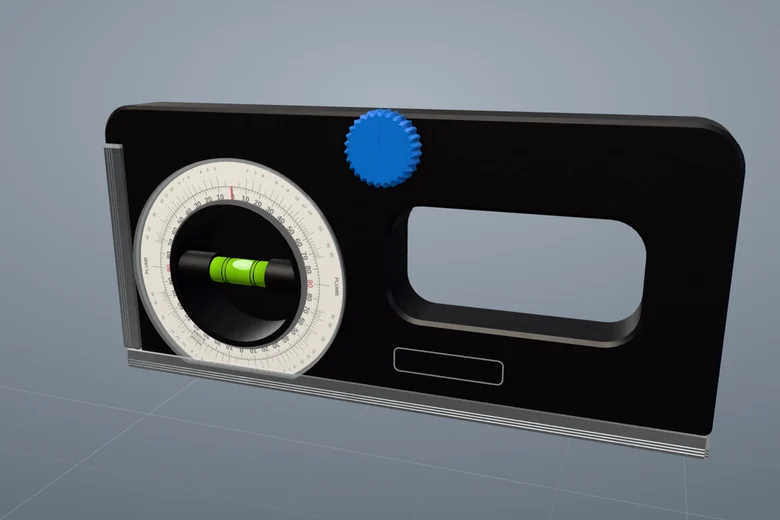
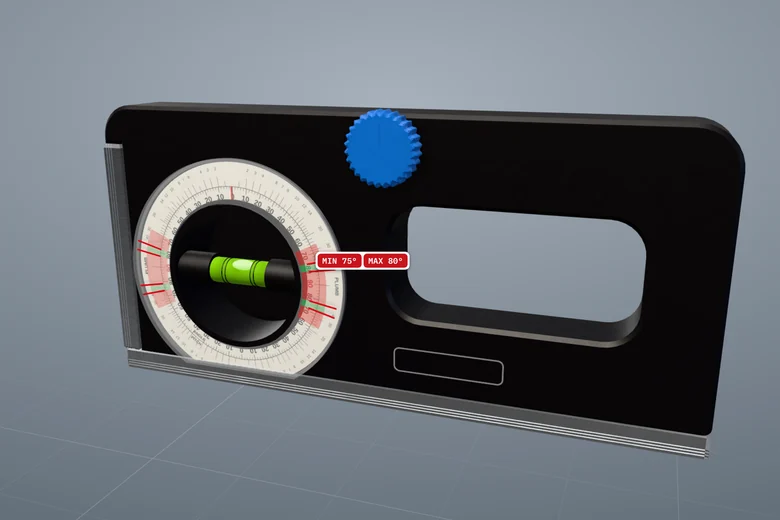
Niveau à degrés : les degrés à ne pas dépasser clairement en rouge sur le cadran
Demande du client. La plage du rack à tiges (75° à 80°) est désormais montrée
en permanence sur le cadran, et plus seulement panneau ouvert : trait rouge
épais à 75° et à 80°, zones interdites en rouge franc de part et d'autre
(trop couché, trop debout), zone permise en vert entre les deux, et étiquette
rouge « MIN 75° · MAX 80° » posée près de la plage la plus proche de
l'aiguille (cachée quand le cadran est vu de dos). Repères du site, absents de
l'outil ; masqués en vue éclatée et en coupe.

Panneau « Mesurer » : les deux limites sont rappelées en rouge (MIN 75°,
MAX 80°), celle qui est franchie est cerclée, le verdict nomme le minimum ou
le maximum dépassé, et le mode d'emploi dit en rouge « Ne pas dépasser 80° ;
pas moins de 75° ». « Cadran de face » garde l'étiquette dans le cadre.

Curseur d'éclatement : l'événement « view-state » est émis au passage
d'assemblé à éclaté (ou l'inverse) et au relâcher — il ne l'était pas, les
fonctions ignoraient l'état quand on tirait le curseur.

Fiche, page des cotes P02, vignette (limites visibles), index et README.

Claude-Session: https://claude.ai/code/session_015N4WsssJZ8LhHWCi7yY3si

Changed region(s): [[0.3692, 0.4615, 0.5231, 0.6462], [0.1538, 0.4308, 0.2462, 0.5846]]

diff --git a/src/ui/features/niveau-degres.js b/src/ui/features/niveau-degres.js
@@ -11,14 +11,18 @@
 // - Sur un téléphone, « Suivre le téléphone » lit ses capteurs d'inclinaison : le téléphone
 //   tenu debout remplace l'outil, sa tranche du bas tient lieu de règle de base.
 // - Usage indiqué par le client : vérifier l'angle du rack à tiges, entre 75° et 80°
-//   (procédure PRO-DD-ST-008 du support de tiges de forage, étape 5). Panneau ouvert, la
-//   plage est en vert sur le cadran (repère visuel, absent de l'outil) et le panneau dit si
-//   l'angle lu convient ; « Poser sur le rack » penche la surface comme le support de la
-//   scène d'installation. L'outil est aimanté : il tient seul contre l'acier du rack.
+//   (procédure PRO-DD-ST-008 du support de tiges de forage, étape 5). Les degrés à ne pas
+//   dépasser sont clairement en rouge sur le cadran, en permanence (demande du client) :
+//   traits rouges épais à 75° et à 80°, zones interdites en rouge, zone permise en vert,
+//   étiquette rouge « MIN 75° · MAX 80° » du côté de l'aiguille — repères du site, absents de
+//   l'outil. Le panneau rappelle les deux limites en rouge et dit si l'angle lu convient ;
+//   « Poser sur le rack » penche la surface comme le support de la scène d'installation.
+//   L'outil est aimanté : il tient seul contre l'acier du rack.
 //
 // Les cotes, la place de la bulle et l'angle lu viennent du modèle
 // (src/models/niveau-a-degres/index.js) ; ce module ne fait que l'interface.
 import * as THREE from 'three';
+import { CSS2DObject } from 'three/examples/jsm/renderers/CSS2DRenderer.js';
 import './niveau-degres.css';
 import { L, T, CADRAN, MOLETTE, FIOLE, RAPPORT, RACK, lecture, bulle, placerBulle, regler, mobiles, verdictRack } from '../../models/niveau-a-degres/index.js';
 
@@ -58,7 +62,9 @@ export default {
     let racine = null; // modèle affiché (racine), ou null hors de la page du niveau
     let pieces = null; // pièces mobiles : { tambour, fiole, molette, bulle }
     let surface = null; // bande de la surface mesurée
-    let zone = null; // plage du rack à tiges, en vert sur le cadran
+    let zone = null; // plage du rack à tiges sur le cadran : permis en vert, limites et interdit en rouge
+    let coupe = false; // vue en coupe : la plage, posée sur le couvercle, est masquée
+    let retour = 0; // délai avant de remontrer la plage, le temps que le couvercle revienne de la vue éclatée
     let eclate = 0;
     let bx = 0; // place affichée de la bulle le long de la fiole (mm)
     let image = 0; // requestAnimationFrame en cours
@@ -81,7 +87,10 @@ export default {
         <b class="nvd-deg mono" data-nvd="deg">0,0°</b>
         <span class="nvd-pente" data-nvd="pente"></span>
         <span class="nvd-bulle" data-nvd="bulle" role="status"></span>
-        <span class="nvd-rack" data-nvd="rack"></span>
+        <span class="nvd-rack" data-nvd="rack">
+          <span class="nvd-limites" title="Rack à tiges : limites à ne pas dépasser"><b class="nvd-min">MIN ${RACK.min}°</b><b class="nvd-max">MAX ${RACK.max}°</b></span>
+          <span data-nvd="rack-txt" role="status"></span>
+        </span>
       </div>
       <div class="nvd-champ" data-nvd="champ-pente">
         <label for="nvd-pente">Pente de la surface mesurée</label>
@@ -111,7 +120,7 @@ export default {
         <li>Posez la règle de base sur le poteau du rack à tiges : elle est aimantée, l'outil tient seul contre l'acier et les deux mains restent libres. Ici, penchez la surface ou choisissez « Poser sur le rack à tiges ».</li>
         <li>Tournez la molette bleue jusqu'à ce que la bulle soit entre les deux paires de traits. Dans la vue 3D, tirez la molette ou la fiole.</li>
         <li>Lisez l'angle sous l'aiguille rouge : degrés au-dedans (ANGLE), pouces par pied au-dehors (PITCH). 0 : de niveau ; 90, « PLUMB » : d'aplomb.</li>
-        <li>Rack à tiges : l'aiguille doit être dans la zone verte, entre ${RACK.min}° et ${RACK.max}° (graduations aux 2° : ${RACK.min} se lit entre 74 et 76).</li>
+        <li>Rack à tiges : l'aiguille doit être dans la zone verte, entre les deux traits rouges. <b class="nvd-rouge">Ne pas dépasser ${RACK.max}° ; pas moins de ${RACK.min}°.</b> Graduations aux 2° : ${RACK.min} se lit entre 74 et 76.</li>
       </ol>
       <p class="nvd-source" data-nvd="source">Plage de ${PLAGE} : procédure du support de tiges de forage, étape 5. <button type="button" class="nvd-lien" data-nvd="procedure">Voir la procédure du rack à tiges ›</button></p>`;
     const $ = (nom) => el.querySelector(`[data-nvd="${nom}"]`);
@@ -138,12 +147,12 @@ export default {
       // Loin de la plage (outil à l'horizontale, autre mesure) : pas d'alerte, l'outil n'est pas sur le rack.
       const v = !centree || plat ? 'attente' : l.deg < LOIN ? 'loin' : verdictRack(l.deg);
       rack.dataset.etat = v;
-      rack.textContent = `Rack à tiges, ${PLAGE} : ${{
+      $('rack-txt').textContent = `Rack à tiges : ${{
         attente: 'centrez la bulle pour vérifier',
         loin: 'posez l\'outil sur le poteau du rack',
         conforme: `conforme (${fr(l.deg)}°)`,
-        couche: `trop couché (${fr(l.deg)}°, moins de ${RACK.min}°)`,
-        debout: `trop debout (${fr(l.deg)}°, plus de ${RACK.max}°)`,
+        couche: `trop couché (${fr(l.deg)}°), sous le minimum de ${RACK.min}°`,
+        debout: `trop debout (${fr(l.deg)}°), au-delà du maximum de ${RACK.max}°`,
       }[v]}.`;
       if (document.activeElement !== cPente) cPente.value = String(etat.pente);
       if (document.activeElement !== nPente) nPente.value = String(Math.round(etat.pente * 10) / 10);
@@ -167,38 +176,77 @@ export default {
     }
 
     /**
-     * Plage du rack à tiges sur le cadran : secteurs verts translucides aux quatre endroits où
-     * l'aiguille lit de 75° à 80° (de part et d'autre de chaque « PLUMB »), bordés de rouge pâle
-     * (trop couché, trop debout). Repère visuel posé sur le couvercle, absent de l'outil ;
-     * montré tant que le panneau de mesure est ouvert.
+     * Plage du rack à tiges sur le cadran, montrée en permanence (demande du client : les degrés à
+     * ne pas dépasser clairement en rouge). Aux quatre endroits où l'aiguille lit de 75° à 80°, de
+     * part et d'autre de chaque « PLUMB » : zone permise en vert, zones interdites en rouge (trop
+     * couché, trop debout), trait rouge épais à chaque limite ; et une étiquette rouge
+     * « MIN 75° · MAX 80° » du côté où se trouve l'aiguille. Repères du site posés sur le
+     * couvercle, absents de l'outil ; masqués en vue éclatée et en coupe.
      */
     function creerZone() {
       const g = new THREE.Group();
       const teinte = (color, opacity) => new THREE.MeshBasicMaterial({ color, transparent: true, opacity, depthWrite: false, toneMapped: false, side: THREE.DoubleSide });
-      const vert = teinte(0x1fb85a, 0.5), rouge = teinte(0xe03a2e, 0.2);
+      const vert = teinte(0x1fb85a, 0.5), rouge = teinte(0xe0221c, 0.5);
+      const trait = new THREE.MeshBasicMaterial({ color: 0xd8141c, toneMapped: false, side: THREE.DoubleSide });
       const r0 = (CADRAN.rTrou + 0.4) * MM, r1 = (CADRAN.rArc + 4.6) * MM;
-      /** Secteurs où l'aiguille lit de v0 à v1 : la lecture v est à l'angle polaire 90 − v et à ses trois symétriques. */
+      const muet = (m) => { m.raycast = () => {}; return m; }; // ni survol ni clic
+      /** Angles polaires (degrés) où l'aiguille lit v : 90 − v et ses trois symétriques. */
+      const ou = (v) => [90 - v, 90 + v, 270 - v, 270 + v];
+      /** Secteurs où l'aiguille lit de v0 à v1. */
       const secteurs = (v0, v1, mat) => {
-        for (const debut of [90 - v1, 90 + v0, 270 - v1, 270 + v0]) {
-          const m = new THREE.Mesh(new THREE.RingGeometry(r0, r1, 12, 1, debut * RAD, (v1 - v0) * RAD), mat);
-          m.raycast = () => {}; // ni survol ni clic
-          g.add(m);
-        }
+        for (const debut of [90 - v1, 90 + v0, 270 - v1, 270 + v0]) g.add(muet(new THREE.Mesh(new THREE.RingGeometry(r0, r1, 12, 1, debut * RAD, (v1 - v0) * RAD), mat)));
       };
-      // Comme dans la scène d'installation du rack : permis en vert, trop couché et trop debout en rouge pâle.
       secteurs(RACK.min, RACK.max, vert);
       secteurs(RACK.min - 10, RACK.min, rouge);
       secteurs(RACK.max, 90, rouge);
+      // Limites : trait rouge plein, des chiffres du cadran jusqu'au bord du couvercle.
+      const t0 = CADRAN.rChiffres + 1.9, t1 = CADRAN.rCouvercle - 2.2;
+      for (const v of [RACK.min, RACK.max]) for (const a of ou(v)) {
+        const m = muet(new THREE.Mesh(new THREE.PlaneGeometry((t1 - t0) * MM, 0.75 * MM), trait));
+        m.position.set(((t0 + t1) / 2) * MM * Math.cos(a * RAD), ((t0 + t1) / 2) * MM * Math.sin(a * RAD), 0.05 * MM);
+        m.rotation.z = a * RAD;
+        g.add(m);
+      }
+      // Étiquette des limites : toujours lisible, quel que soit le zoom ; cachée quand le cadran est vu de dos.
+      const el = document.createElement('div');
+      el.className = 'nvd-etiquette';
+      el.innerHTML = `<b>MIN ${RACK.min}°</b><b>MAX ${RACK.max}°</b>`;
+      el.title = `Rack à tiges : ne pas dépasser ${RACK.max}°, pas moins de ${RACK.min}°`;
+      const etiquette = new CSS2DObject(el);
+      const n = new THREE.Vector3(), o = new THREE.Vector3();
+      etiquette.onBeforeRender = (_r, _s, camera) => {
+        n.set(0, 0, 1).transformDirection(etiquette.matrixWorld);
+        o.setFromMatrixPosition(etiquette.matrixWorld);
+        el.style.visibility = n.dot(o.sub(camera.position)) < 0 ? '' : 'hidden';
+      };
+      g.add(etiquette);
+      g.userData.etiquette = etiquette;
       const c = CADRAN.couvercle;
       g.position.set(CADRAN.x * MM, CADRAN.y * MM, (T / 2 + c.jour + c.ep + 0.15) * MM);
       g.userData.stepOnly = true; // hors du cadrage du modèle
-      g.visible = false;
       return g;
+    }
+    /** L'étiquette des limites se tient près de la plage la plus proche de l'aiguille (à égalité : en haut à droite). */
+    function placerEtiquette() {
+      if (!zone) return;
+      const milieu = 90 - (RACK.min + RACK.max) / 2;
+      const aiguille = 90 + etat.cadran;
+      let mieux = milieu, ecart = Infinity;
+      for (const a of [milieu, 180 - milieu, 180 + milieu, 360 - milieu]) {
+        const d = Math.abs(tour(a - aiguille));
+        if (d < ecart - 1e-6) { ecart = d; mieux = a; }
+      }
+      const r = (CADRAN.rCouvercle + 10) * MM;
+      zone.userData.etiquette.position.set(r * Math.cos(mieux * RAD), r * Math.sin(mieux * RAD), 0);
     }
     const montrerZone = () => {
       if (!zone) return;
-      const v = ctx.ui.sidePanel.has(ID);
-      if (zone.visible !== v) { zone.visible = v; ctx.viewer.invalidate(); }
+      clearTimeout(retour);
+      const v = eclate <= 0.02 && !coupe;
+      if (zone.visible === v) return;
+      // Retour de la vue éclatée : la plage attend que le couvercle soit revenu à sa place.
+      if (v) retour = setTimeout(() => { if (zone && eclate <= 0.02 && !coupe) { zone.visible = true; ctx.viewer.invalidate(); } }, reduit.matches ? 0 : 700);
+      else { zone.visible = false; ctx.viewer.invalidate(); }
     };
 
     /** Pose le modèle selon l'état ; la bulle suit en glissant (boucle). */
@@ -209,6 +257,7 @@ export default {
       const b = bulle(haut(), etat.cadran);
       if (sec || reduit.matches) bx = b.x;
       placerBulle(pieces.bulle, { ...b, x: bx });
+      placerEtiquette();
       afficher();
       ctx.viewer.invalidate();
       if (Math.abs(b.x - bx) > 0.01 || anim) lancer();
@@ -235,6 +284,7 @@ export default {
       bx += (b.x - bx) * (1 - Math.exp(-dt / TAU));
       if (Math.abs(b.x - bx) < 0.01) bx = b.x;
       placerBulle(pieces.bulle, { ...b, x: bx });
+      placerEtiquette();
       afficher();
       ctx.viewer.invalidate();
       if (anim || bx !== b.x) image = requestAnimationFrame(pas);
@@ -257,7 +307,8 @@ export default {
       const c = racine.localToWorld(new THREE.Vector3(CADRAN.x * MM, CADRAN.y * MM, (T / 2) * MM));
       // De face, puis cadré dans la partie de la scène que le panneau laisse libre.
       ctx.viewer.lookAt([c.x, c.y, c.z + 0.4], [c.x, c.y, c.z], { instant: true });
-      const r = (CADRAN.rCouvercle + 6) * MM;
+      // Marge autour du couvercle : l'étiquette des limites du rack, posée juste dehors, reste dans le cadre.
+      const r = (CADRAN.rCouvercle + 23) * MM;
       ctx.viewer.frame(new THREE.Box3(new THREE.Vector3(c.x - r, c.y - r, c.z - T * MM), new THREE.Vector3(c.x + r, c.y + r, c.z)));
     }
 
@@ -267,8 +318,8 @@ export default {
       if (!pieces.tambour || !pieces.fiole || !pieces.bulle) { racine = null; return; }
       surface = creerSurface();
       zone = creerZone();
+      zone.visible = eclate <= 0.02 && !coupe;
       racine.add(surface, zone);
-      montrerZone();
       poser({ sec: true });
     }
 
@@ -276,6 +327,7 @@ export default {
       if (image) cancelAnimationFrame(image);
       image = 0;
       anim = null;
+      clearTimeout(retour);
       racine = pieces = surface = zone = null;
       capteur(false);
     }
@@ -451,12 +503,12 @@ export default {
       onClick: () => (ctx.ui.sidePanel.owner === ID ? ctx.ui.sidePanel.close() : ouvrir()),
     });
     bouton.hidden = true;
-    ctx.on('sidepanel', ({ open, owner }) => {
-      if (owner === ID) bouton.setAttribute('aria-pressed', String(open));
-      // Panneau ouvert, replié, recouvert par la fiche ou repris par un autre mode : la zone verte suit.
+    ctx.on('sidepanel', ({ open, owner }) => { if (owner === ID) bouton.setAttribute('aria-pressed', String(open)); });
+    ctx.on('view-state', ({ explode, section }) => {
+      eclate = explode || 0;
+      coupe = !!section?.on;
       montrerZone();
     });
-    ctx.on('view-state', ({ explode }) => { eclate = explode || 0; });
     ctx.on('equipment', ({ id }) => {
       // Le lien vers la procédure n'est offert que si le rack à tiges est au catalogue.
       $('source').hidden = !ctx.index.some((e) => e.id === RACK_EQ);

diff --git a/src/ui/features/niveau-degres.css b/src/ui/features/niveau-degres.css
@@ -8,7 +8,16 @@
 .nvd-pente { font-size: 15px; font-variant-numeric: tabular-nums; }
 .nvd-bulle { margin-top: 6px; padding: 6px 9px; border-radius: 7px; font-size: 13px; background: var(--warn-soft); color: var(--warn); }
 .nvd-bulle[data-etat='ok'] { background: color-mix(in srgb, #1f9d55 16%, var(--surface)); color: color-mix(in srgb, #1f9d55 72%, var(--ink)); }
-.nvd-rack { margin-top: 4px; padding: 6px 9px; border-radius: 7px; font-size: 13px; background: var(--surface); color: var(--muted); border: 1px solid var(--line); }
+.nvd-rack { display: flex; flex-wrap: wrap; align-items: center; gap: 6px 8px; margin-top: 4px; padding: 6px 9px; border-radius: 7px; font-size: 13px; background: var(--surface); color: var(--muted); border: 1px solid var(--line); }
+/* Limites du rack à tiges : toujours en rouge, blanc sur rouge (lisible en clair comme en sombre). */
+.nvd-limites { display: inline-flex; gap: 4px; flex: none; }
+.nvd-limites b, .nvd-etiquette b {
+  padding: 2px 7px; border-radius: 5px; background: #c8141c; color: #fff; font-family: var(--f-mono); font-size: 12px; font-weight: 600; letter-spacing: 0.02em; white-space: nowrap;
+}
+.nvd-rack[data-etat='couche'] .nvd-min, .nvd-rack[data-etat='debout'] .nvd-max { box-shadow: 0 0 0 2px var(--surface), 0 0 0 4px #c8141c; }
+.nvd-rouge { color: var(--error); }
+/* Étiquette des limites posée sur la vue 3D, près de la plage du cadran. */
+.nvd-etiquette { display: flex; gap: 3px; padding: 3px; border-radius: 7px; background: #fff; box-shadow: 0 1px 5px rgba(0, 0, 0, 0.45); pointer-events: none; }
 .nvd-rack[data-etat='conforme'] { border-color: transparent; background: color-mix(in srgb, #1f9d55 16%, var(--surface)); color: color-mix(in srgb, #1f9d55 72%, var(--ink)); font-weight: 600; }
 .nvd-rack[data-etat='couche'], .nvd-rack[data-etat='debout'] { border-color: transparent; background: var(--error-soft); color: var(--error); font-weight: 600; }
 .nvd-champ { display: grid; gap: 4px; }

diff --git a/src/main.js b/src/main.js
@@ -1244,10 +1244,17 @@ function bindChrome() {
   }));
 
   const slider = $('#explode');
-  slider.addEventListener('input', () => { S.explode = slider.value / 100; viewer?.setExplode(S.explode, { animate: false }); });
+  slider.addEventListener('input', () => {
+    const avant = S.explode;
+    S.explode = slider.value / 100;
+    viewer?.setExplode(S.explode, { animate: false });
+    // Les fonctions sont prévenues dès que la vue passe d'assemblée à éclatée (ou l'inverse), puis au relâcher.
+    if ((avant < 0.02) !== (S.explode < 0.02)) emitViewState();
+  });
   slider.addEventListener('change', () => {
     if (S.explode < 0.02 && S.expanded.size) { explodeEverything(false); return; }
     viewer?.frame();
+    emitViewState();
   });
   $('#btn-assemble').addEventListener('click', () => explodeEverything(false));
   $('#btn-explode').addEventListener('click', () => setMainExplode(1));

diff --git a/src/ui/features/README.md b/src/ui/features/README.md
@@ -59,7 +59,7 @@ horizontal). Classes prêtes à l'emploi : `btn`, `btn primary`, `tbtn`, `chip`,
 | `'assembly'` | `{ id, assembly, is3d, home, model, equipment }` | un assemblage est affiché, en 3D (`is3d`) ou avec les dessins du manuel ; `home` : page d'accueil 3D de l'équipement (outils cliquables) ; `model` : modèle 3D (`{ root, view }`) ou `null` |
 | `'view'` | `{ type, id, is3d?, home?, system }` | toute vue affichée : `type` = `'assembly'`, `'document'` (schéma / liste) ou `'issues'` (contrôle des listes) ; `system` : voir `ctx.systemOf` |
 | `'select'` | `{ ref, path, row, pn, path3d, objects, source }` | pièce cliquée en 3D (`source: '3d'`) ou ligne de liste / recherche (`'list'`) ; désélection : `ref`, `path`, `row` à `null`. `path` : chemin de repères depuis l'assemblage affiché (`['1', '4']` = repère 4 du sous-groupe 1) ; `path3d` : chemin résolu en 3D ; `objects` : objets Three.js sélectionnés. Émis avant le cadrage de la pièce (qui tient compte du panneau ouvert par la fiche) |
-| `'view-state'` | `{ explode, expanded, section }` | éclatement, groupes éclatés (clés de chemins `'1>4'`) ou coupe changés |
+| `'view-state'` | `{ explode, expanded, section }` | éclatement, groupes éclatés (clés de chemins `'1>4'`) ou coupe changés ; curseur d'éclatement : émis au passage d'assemblé à éclaté (ou l'inverse), puis au relâcher |
 | `'model-update'` | `{ model, old, part, done }` | la vue d'ensemble a remplacé un sous-assemblage simplifié (`old`) par sa version détaillée (`part`) : refaire les marques posées sur le modèle (pastilles, couleurs…) ; `done` : dernier remplacement |
 | `'route'` | `{ hash, equipmentId, token, view }` | après chaque changement d'adresse traité (`token` : `'catalogue'`, id d'assemblage, de document, `'controle'`, `'apercu'` ou adresse d'une fonction) |
 | `'sidepanel'` | `{ open, owner, over?, base?, restored? }` | panneau latéral : couche ouverte / fermée (`owner` : propriétaire donné à `open` ; `over` : couche ouverte avec `over: true`, comme la fiche ; `base` : propriétaire recouvert par elle ; `restored` : couche recouverte revenue). Voir « Panneau latéral et modes » |

diff --git a/README.md b/README.md
@@ -741,10 +741,13 @@ pièces (numéro, quantité, page du manuel).
   la molette, « Cadran de face » cadre le cadran ; sur un téléphone, « Suivre
   le téléphone » lit ses capteurs d'inclinaison (le téléphone tenu debout
   remplace l'outil). Rack à tiges : « Poser sur le rack à tiges » penche la
-  surface à 78°, comme le support de la scène d'installation ; panneau ouvert,
-  la plage de 75° à 80° est en vert sur le cadran, bordée de rouge pâle (repère
-  visuel, absent de l'outil), et le panneau dit, bulle centrée, si l'angle lu
-  est conforme, trop couché ou trop debout, avec un lien vers la procédure du
+  surface à 78°, comme le support de la scène d'installation. Les degrés à ne
+  pas dépasser sont en rouge sur le cadran, en permanence (demande du client) :
+  trait rouge épais à 75° et à 80°, zones interdites en rouge, zone permise en
+  vert, étiquette rouge « MIN 75° · MAX 80° » du côté de l'aiguille — repères
+  du site, absents de l'outil, masqués en vue éclatée et en coupe. Le panneau
+  rappelle les deux limites en rouge et dit, bulle centrée, si l'angle lu est
+  conforme, trop couché ou trop debout, avec un lien vers la procédure du
   rack. La place de la bulle, la pose sur la pente, la lecture et le verdict
   sont dans le modèle (`bulle()`, `regler()`, `lecture()`, `verdictRack()` de
   `src/models/niveau-a-degres/index.js`), contrôlées par
